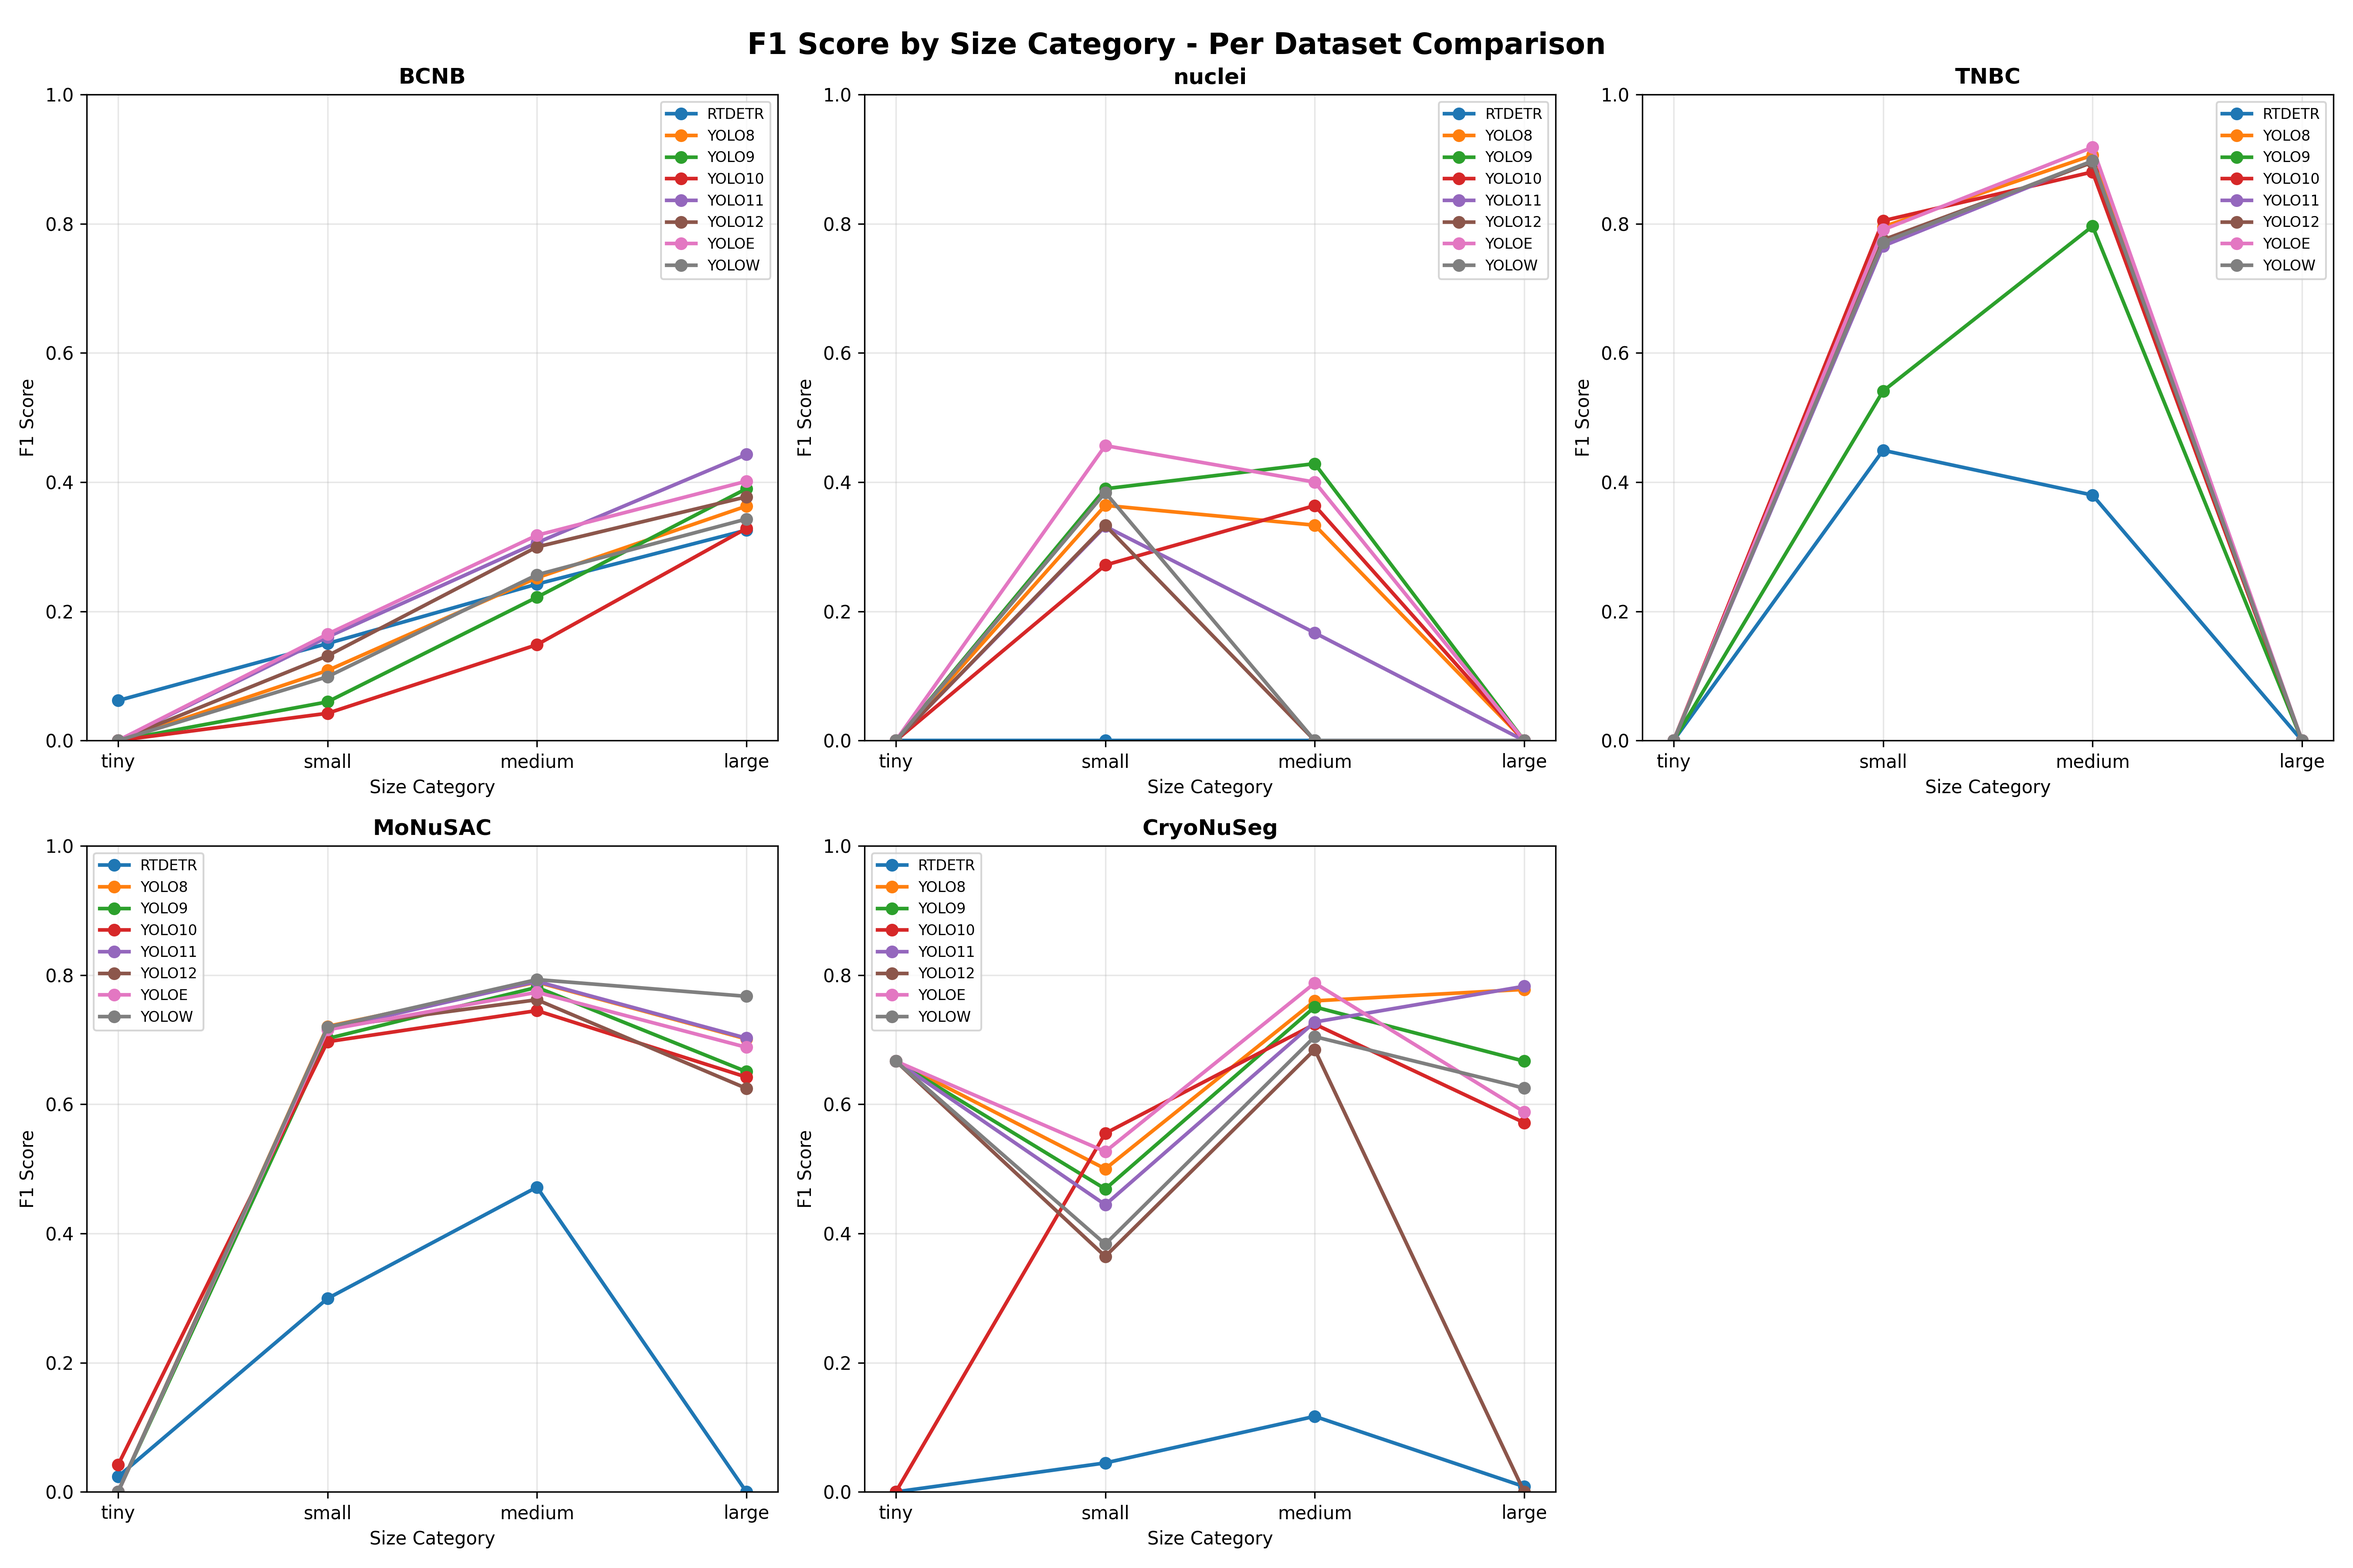
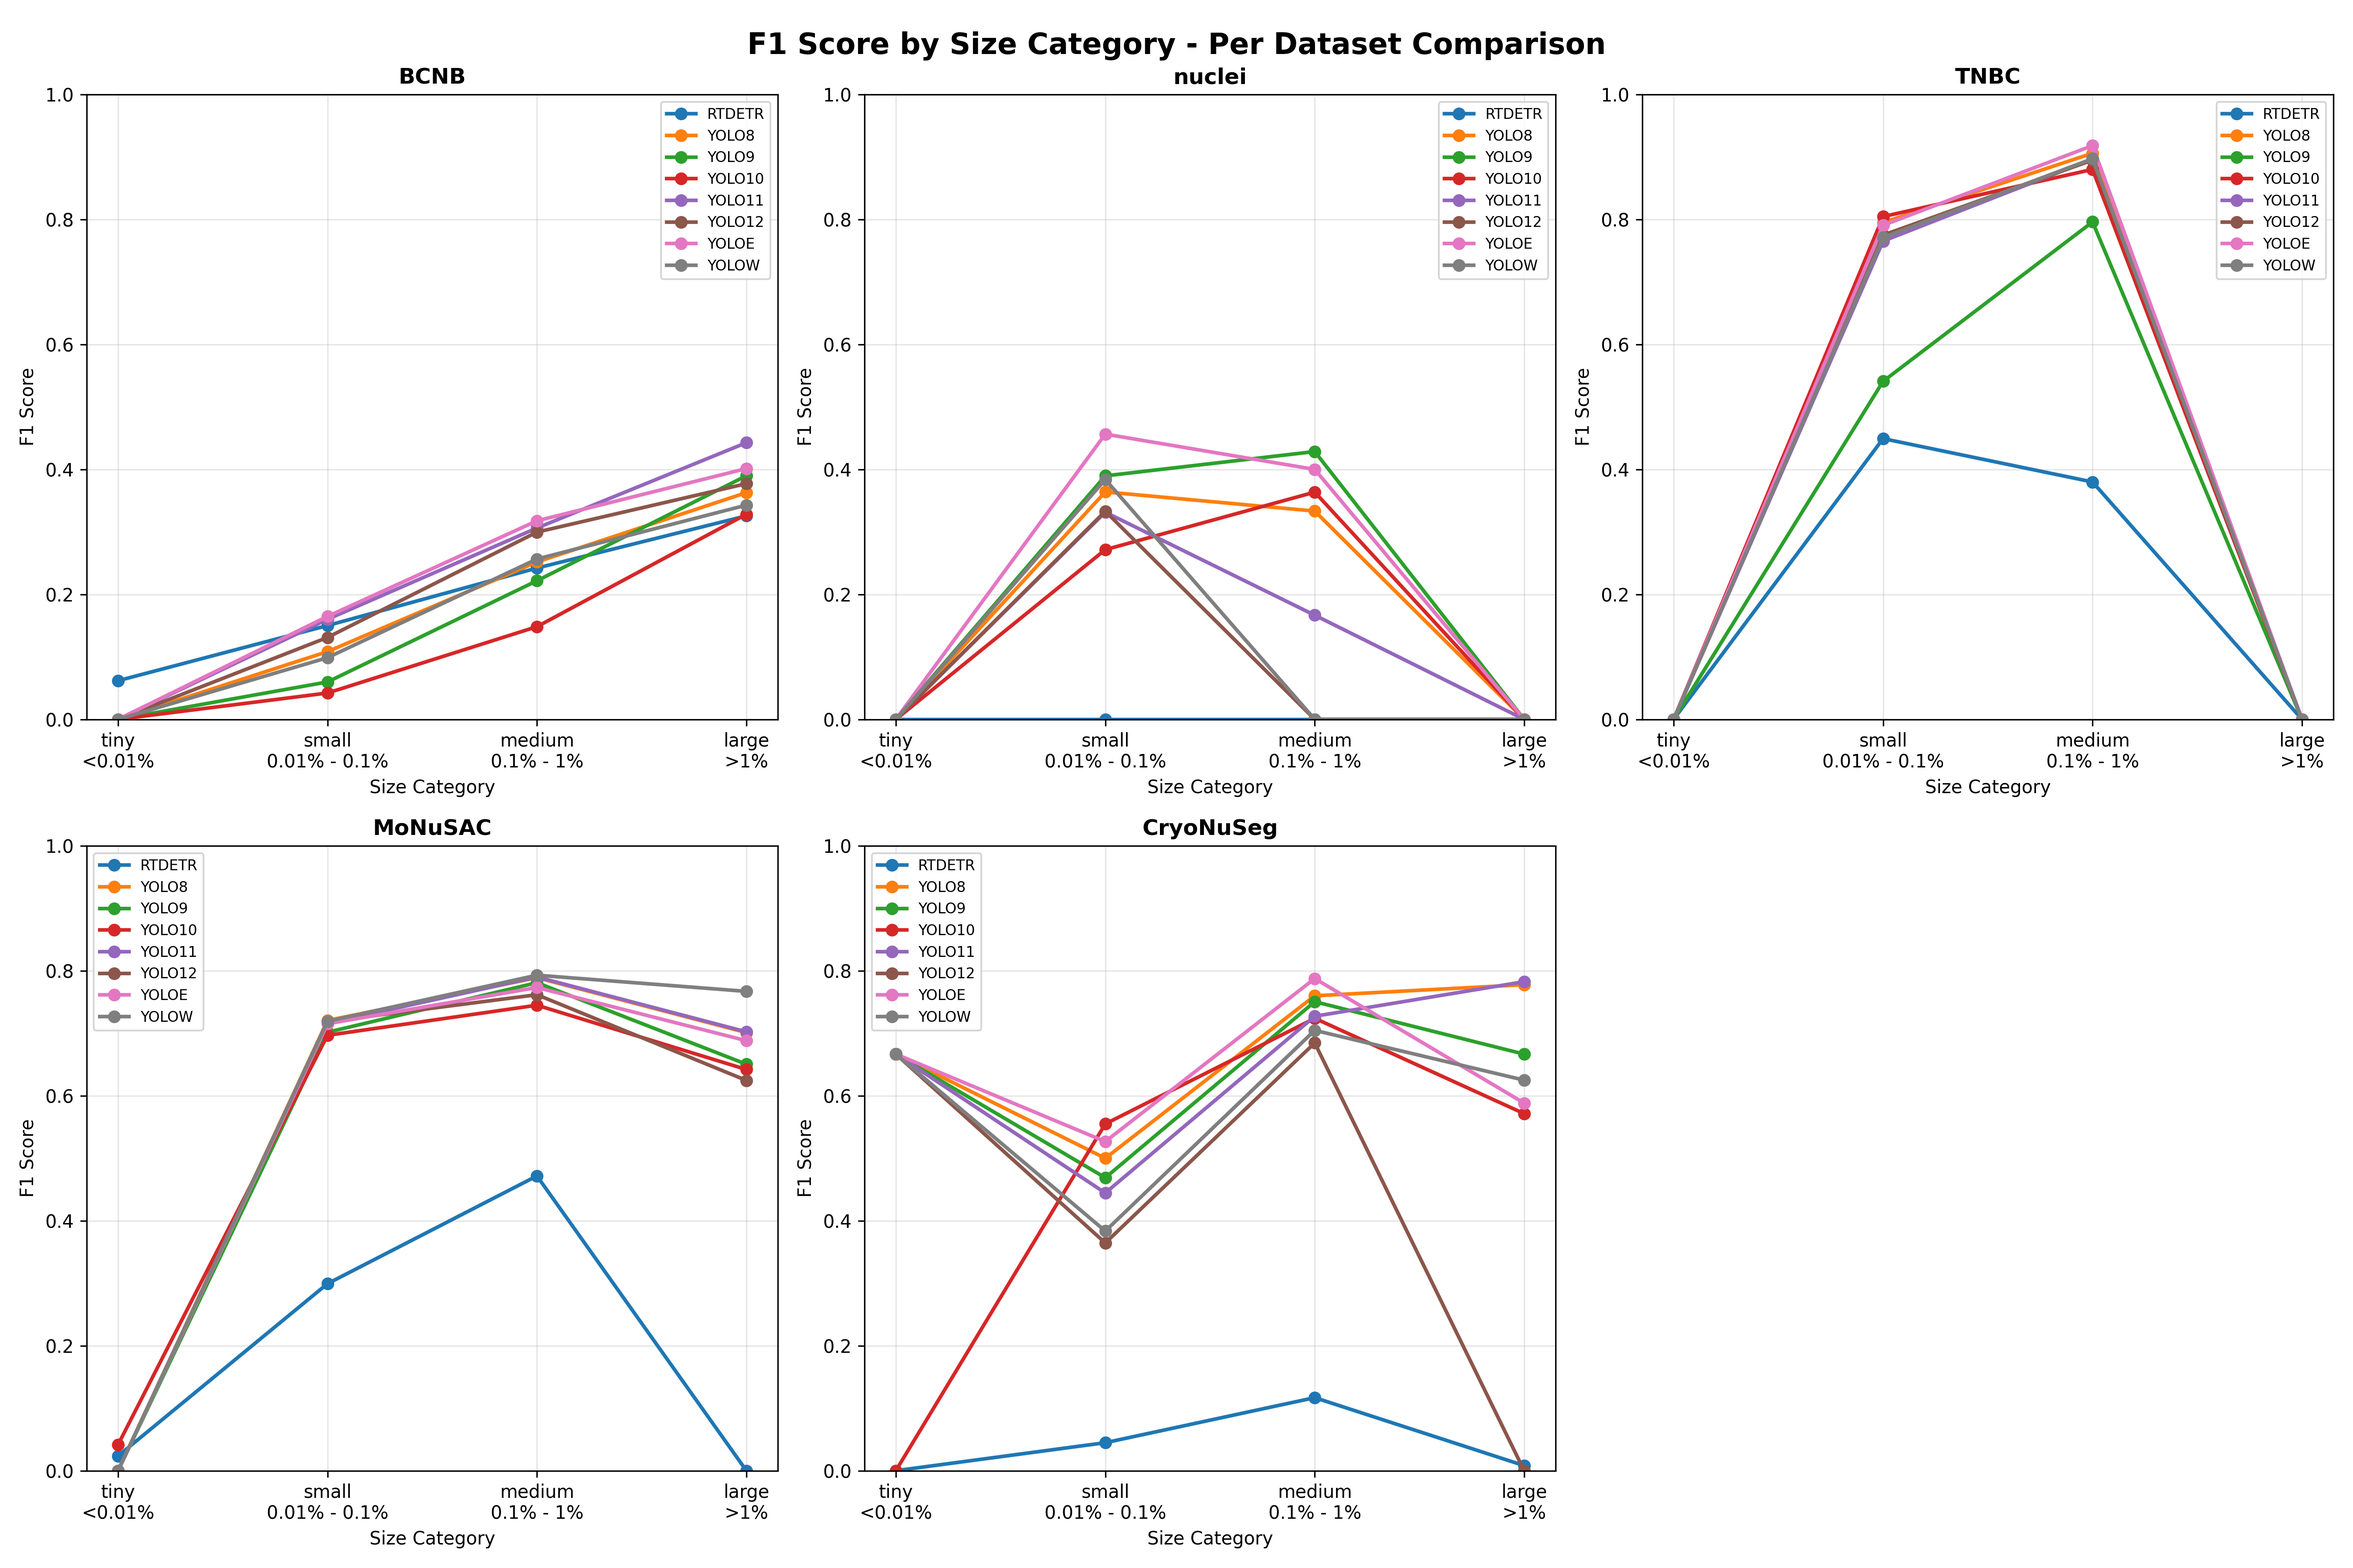
refac

diff --git a/analysis_stats_aggregated.py b/analysis_stats_aggregated.py
@@ -233,8 +233,9 @@ class AggregatedObjectSizeAnalyzer:
         
         plt.xlabel('Object Size Category', fontsize=12)
         plt.ylabel('F1 Score', fontsize=12)
-        plt.title('Aggregated F1 Score by Object Size (All Datasets)', fontsize=14, fontweight='bold')
-        plt.xticks(x + width * (len(self.models) - 1) / 2, categories)
+        plt.title('F1 Score by Object Size (All Datasets)', fontsize=14, fontweight='bold')
+        categories_plot = ['tiny\n<0.01%', 'small\n0.01% - 0.1%', 'medium\n0.1% - 1%', 'large\n>1%']
+        plt.xticks(x + width * (len(self.models) - 1) / 2, categories_plot)
         plt.legend(bbox_to_anchor=(1.05, 1), loc='upper left')
         plt.grid(axis='y', alpha=0.3)
         plt.tight_layout()
@@ -246,9 +247,8 @@ class AggregatedObjectSizeAnalyzer:
         pivot_df = pivot_df[categories]  # Ensure correct order
         
         plt.figure(figsize=(10, 6))
-        sns.heatmap(pivot_df, annot=True, fmt='.3f', cmap='RdYlGn',
-                   vmin=0, vmax=1, cbar_kws={'label': 'F1 Score'})
-        plt.title('Aggregated F1 Score Heatmap by Size Category', fontsize=14, fontweight='bold')
+        sns.heatmap(pivot_df, annot=True, fmt='.3f', cmap='RdYlGn', vmin=0, vmax=1, cbar_kws={'label': 'F1 Score'})
+        plt.title('F1 Score by Size Category', fontsize=14, fontweight='bold')
         plt.xlabel('Object Size Category', fontsize=12)
         plt.ylabel('Model', fontsize=12)
         plt.tight_layout()
@@ -272,8 +272,9 @@ class AggregatedObjectSizeAnalyzer:
                 f1_scores = [model_data[model_data['size_category'] == cat]['f1'].values[0]
                             if len(model_data[model_data['size_category'] == cat]) > 0 else 0
                             for cat in categories]
-                
-                ax.plot(categories, f1_scores, marker='o', label=model.upper(), linewidth=2)
+
+                categories_plot = ['tiny\n<0.01%', 'small\n0.01% - 0.1%', 'medium\n0.1% - 1%', 'large\n>1%']
+                ax.plot(categories_plot, f1_scores, marker='o', label=model.upper(), linewidth=2)
             
             ax.set_title(f'{dataset}', fontsize=12, fontweight='bold')
             ax.set_xlabel('Size Category', fontsize=10)
@@ -286,8 +287,7 @@ class AggregatedObjectSizeAnalyzer:
         for idx in range(len(datasets), len(axes)):
             axes[idx].set_visible(False)
         
-        plt.suptitle('F1 Score by Size Category - Per Dataset Comparison',
-                    fontsize=16, fontweight='bold')
+        plt.suptitle('F1 Score by Size Category - Per Dataset Comparison', fontsize=16, fontweight='bold')
         plt.tight_layout()
         plt.savefig(os.path.join(self.output_dir, 'f1_by_size_per_dataset.png'), dpi=300)
         plt.close()
@@ -322,8 +322,7 @@ class AggregatedStatisticalAnalyzer:
         combined_df = pd.concat(all_dfs, ignore_index=True)
         return combined_df
     
-    def compute_aggregated_confidence_intervals(self, metric: str = 'box_mAP@50',
-                                               confidence: float = 0.95) -> pd.DataFrame:
+    def compute_aggregated_confidence_intervals(self, metric: str = 'box_mAP@50', confidence: float = 0.95) -> pd.DataFrame:
         """Compute confidence intervals aggregated across datasets"""
         combined_df = self.load_all_results()
         
@@ -418,10 +417,8 @@ class AggregatedStatisticalAnalyzer:
                 data2 = []
                 
                 for dataset in combined_df['dataset'].unique():
-                    m1_data = combined_df[(combined_df['model'] == model1) &
-                                         (combined_df['dataset'] == dataset)]
-                    m2_data = combined_df[(combined_df['model'] == model2) &
-                                         (combined_df['dataset'] == dataset)]
+                    m1_data = combined_df[(combined_df['model'] == model1) & (combined_df['dataset'] == dataset)]
+                    m2_data = combined_df[(combined_df['model'] == model2) & (combined_df['dataset'] == dataset)]
                     
                     if len(m1_data) > 0 and len(m2_data) > 0:
                         data1.append(m1_data[metric].values[0])
@@ -702,8 +699,7 @@ class AggregatedFailureModeAnalyzer:
         df_plot.plot(kind='bar', stacked=True, figsize=(12, 6),
                     colormap='Set3', edgecolor='black', linewidth=0.5)
         
-        plt.title('Aggregated Failure Mode Distribution by Model (All Datasets)',
-                 fontsize=14, fontweight='bold')
+        plt.title('Failure Mode Distribution by Model (All Datasets)', fontsize=14, fontweight='bold')
         plt.xlabel('Model', fontsize=12)
         plt.ylabel('Number of Failures', fontsize=12)
         plt.legend(title='Failure Mode', bbox_to_anchor=(1.05, 1), loc='upper left')
@@ -725,8 +721,7 @@ class AggregatedFailureModeAnalyzer:
             ax = axes[idx]
             dataset_df = df[df['dataset'] == dataset].set_index('model')[failure_cols]
             
-            dataset_df.plot(kind='bar', stacked=True, ax=ax,
-                          colormap='Set3', edgecolor='black', linewidth=0.5)
+            dataset_df.plot(kind='bar', stacked=True, ax=ax, colormap='Set3', edgecolor='black', linewidth=0.5)
             
             ax.set_title(f'{dataset}', fontsize=12, fontweight='bold')
             ax.set_xlabel('Model', fontsize=10)
@@ -740,11 +735,9 @@ class AggregatedFailureModeAnalyzer:
         
         # Add legend to the figure
         handles, labels = axes[0].get_legend_handles_labels()
-        fig.legend(handles, labels, title='Failure Mode',
-                  loc='center left', bbox_to_anchor=(0.95, 0.5))
+        fig.legend(handles, labels, title='Failure Mode', loc='center left', bbox_to_anchor=(0.95, 0.5))
         
-        plt.suptitle('Failure Modes - Per Dataset Comparison',
-                    fontsize=16, fontweight='bold')
+        plt.suptitle('Failure Modes - Per Dataset Comparison', fontsize=16, fontweight='bold')
         plt.tight_layout(rect=[0, 0, 0.95, 1])
         plt.savefig(os.path.join(self.output_dir, 'failure_modes_per_dataset.png'), dpi=300)
         plt.close()

diff --git a/analysis_stats.py b/analysis_stats.py
@@ -469,10 +469,8 @@ class StatisticalAnalyzer:
                     values2 = []
 
                     for dataset in datasets:
-                        val1 = self.df[(self.df['model'] == model1) &
-                                      (self.df['dataset'] == dataset)][metric].values
-                        val2 = self.df[(self.df['model'] == model2) &
-                                      (self.df['dataset'] == dataset)][metric].values
+                        val1 = self.df[(self.df['model'] == model1) & (self.df['dataset'] == dataset)][metric].values
+                        val2 = self.df[(self.df['model'] == model2) & (self.df['dataset'] == dataset)][metric].values
 
                         if len(val1) > 0 and len(val2) > 0:
                             values1.append(val1[0])
